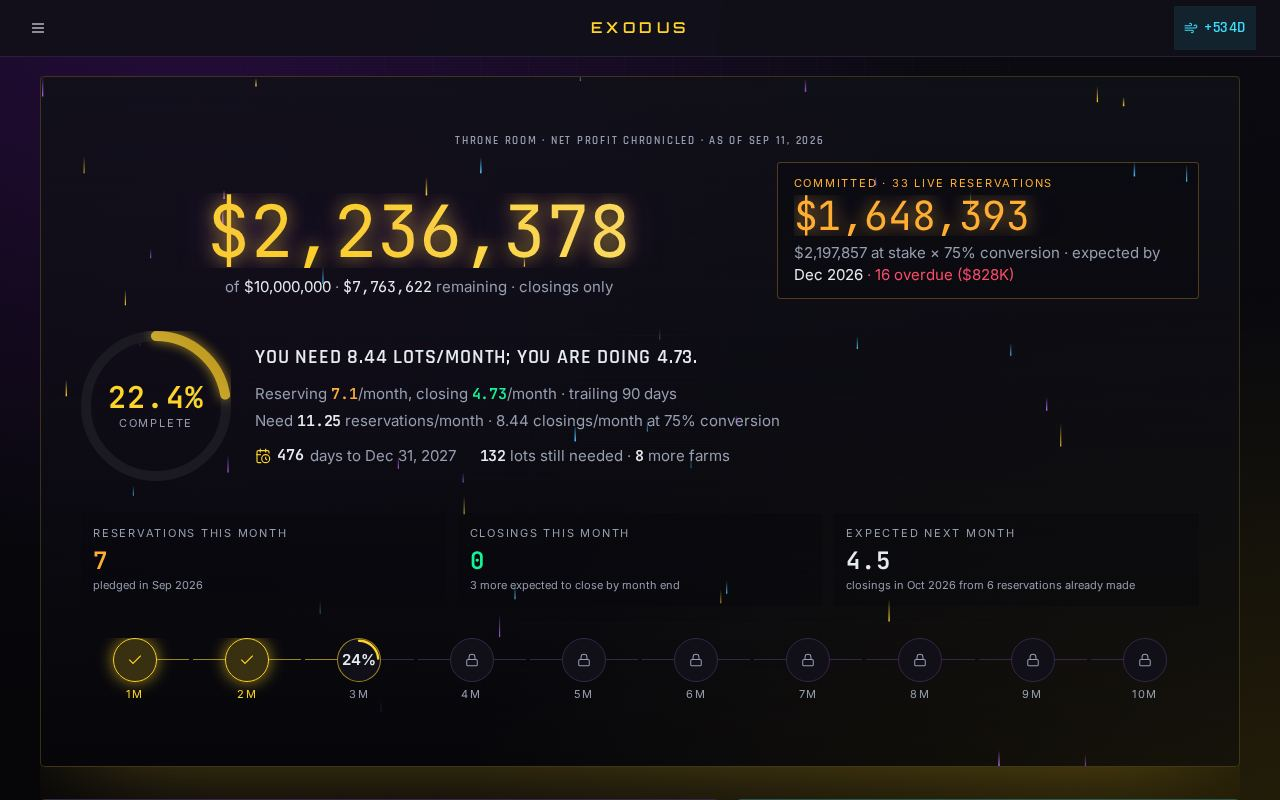
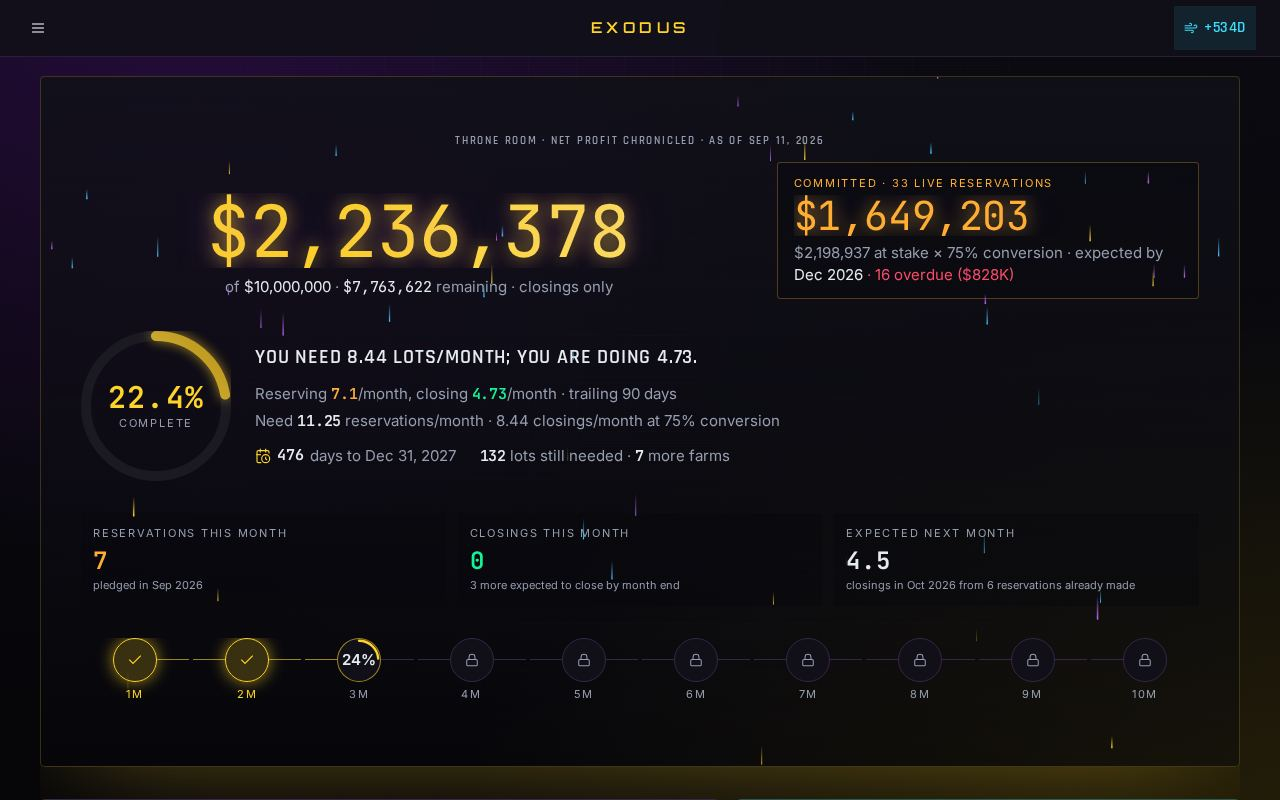
docs: Exodus shipped — PROGRESS "Exodus — status" with the live 30 % results (verdict ES/EN, $3.0M in 27.89 notes, 5 releases $203,192, no own-cash farm, $9,998,756 cash, back Oct 5 2027, $572,400 saved vs 100 % cash, maxNotesPct 60), the engine in one paragraph and every assumption; OPEN_QUESTIONS 

Changed region(s): [[0.6562, 0.25, 0.9062, 0.3438]]

diff --git a/PROGRESS.md b/PROGRESS.md
@@ -4,22 +4,27 @@
 
 | | |
 |---|---|
-| **URL** | **https://terrafunded-quest-v2.vercel.app** — live (deployed 2026-09-11 via Option B in **`DEPLOY.md`** with `VERCEL_TOKEN`; last `npm run verify:live` after the Era deploy: net profit **$2,236,378**, trapped **$1,103,375**, "You need 8.44 lots/month; you are doing 4.73.", deep link `/pipeline` 200, all three themes persist; the Throne Room screenshots in `docs/live-*.jpg` show the Committed counter — 33 live reservations, $1,648,393 of $2,197,857 at stake, expected by Dec 2026 — the two pace lines, the This-month strip with September's **7** reservations (OPEN_QUESTIONS #69) and the Debt's *"$10,026 / day since Mar 2026 (194 days) · $6,656 / day over the full history"*; the live War Plan reads the projected 219.5-day cycle "funded since Mar 2026" and a disabled Seasonal button — "not enough history for seasonality: 6 of 12 months" (#79). |
+| **URL** | **https://terrafunded-quest-v2.vercel.app** — live (deployed 2026-09-11 via Option B in **`DEPLOY.md`** with `VERCEL_TOKEN`; last `npm run verify:live` after the Era deploy: net profit **$2,236,378**, trapped **$1,103,375**, "You need 8.44 lots/month; you are doing 4.73.", deep link `/pipeline` 200, all three themes persist; the Throne Room screenshots in `docs/live-*.jpg` show the Committed counter — 33 live reservations, $1,648,393 of $2,197,857 at stake, expected by Dec 2026 — the two pace lines, the This-month strip with September's **7** reservations (OPEN_QUESTIONS #69) and the Debt's *"$10,026 / day since Mar 2026 (194 days) · $6,656 / day over the full history"*; the live War Plan reads the projected 219.5-day cycle "funded since Mar 2026" and a disabled Seasonal button — "not enough history for seasonality: 6 of 12 months" (#79). **Exodus deploy (2026-09-11 22:08 UTC):** `/exodus` deep link 200; at 30 % the live verdict reads *"Con 30% en pagarés ($3.0M entregados): liberar $684K mediante 5 liberaciones parciales por $203K, no comprar fincas con efectivo propio, vender 255 pagarés y pagar $10.0M a los LP en efectivo."*, discount saved **$572,400**, capital back **Oct 5, 2027** instead of Oct 23, 2027, `maxNotesPct` **60** — the fixture figures to the dollar (see "Exodus — status"). |
 | **QR** | <img src="docs/qr-live.png" alt="QR code for the live Quest URL" width="160"> `docs/qr-live.png` / `.svg`, generated by `npm run qr` (`scripts/qr.ts`); re-run with the real URL if Vercel assigns a different alias |
 | **Platform** | `vercel.json`: Vite framework preset, `npm run build` → `dist/`, every route rewritten to `/index` with `cleanUrls` (SPA deep links; `/pipeline` returns 200), immutable cache on `/assets`, nosniff / frame-deny / referrer headers. No server, no API routes. |
 | **Env** | `VITE_SUPABASE_URL`, `VITE_SUPABASE_ANON_KEY` on Vercel (production + preview). Nothing else; the anon key is public by design and RLS keeps the app read-only. |
 | **Check** | `npm run verify:live -- <url>` (`scripts/verify-live.ts`): deep link `/pipeline` is not a 404, signs in as the viewer, asserts the Throne Room net-profit counter is a real dollar amount > 0 and reads the trapped-profit counter and the verdict, then picks each of the three themes on `/login`, asserts `html[data-theme]` + `localStorage` and that the choice survives a reload, and saves `docs/live-<theme>.jpg`. Run against the local production build (`http://localhost:4173`) it reports net profit **$2,272,304**, trapped **$1,116,863**, "You need 8.31 lots/month; you are doing 4.4." and all three skins switching — the same run is the acceptance test for the live URL. |
 
 Branch `v2`. Snapshot of live Payments taken **2026-09-11 02:07 UTC** and **refreshed 2026-09-11
-19:17 UTC** (`npm run snapshot`; every pinned number re-pinned — see **"Snapshot 2026-09-11
-refresh"** at the end of the file; the sections in between quote the 02:07 figures).
-Last full verification (build · lint · 310 unit tests · 233 Playwright tests): **2026-09-11**.
+19:17 UTC and again 21:31 UTC** (`npm run snapshot`; every pinned number re-pinned each time — see
+**"Snapshot 2026-09-11 refresh"** and its "Second refresh the same day" near the end of the file;
+the sections in between quote the 02:07 figures).
+Last full verification (build · lint · 343 unit tests · 251 Playwright tests): **2026-09-11**, followed
+by the Exodus deploy and `verify:live` (net profit $2,236,378 · trapped $1,103,375 · "You need 8.44
+lots/month; you are doing 4.73." · three themes persist) — the live Exodus figures are in **"Exodus —
+status"** at the end of the file.
 
 Order of work, as requested: Phase 1 numbers verified → connection check → domain reproduces the
 verified numbers → **Phase 2: Epic** → **Pipeline layer** → **three visual themes + POLISH loops
 + performance/mobile audit** → **War Plan + Rotation** → **Data Quality for operations** →
 **Reservations first-class** → **The Era** (`ERA_START = 2026-03-01`) → **Snapshot 2026-09-11
-refresh** → **Exodus** (lot ledger port first) (all at the end of the file).
+refresh** → **Exodus** (lot ledger port first, then the engine, the page, the tests, the deploy) (all
+at the end of the file).
 
 ## Payments connection check (`npm run check`, 2026-09-11 02:52 UTC)
 
@@ -659,3 +664,104 @@ column names are in `payments_schema.md`; what it returns beyond the rule (`floo
 unreleased lots carry **$1,880,453.51** of balance today (Eastland $307,157.38 · Titus $369,757.47 ·
 Freestone $253,158.02 · Avery $548,275.69 · Franklin $402,104.95 · Franklin 2 $0 until 2026-10-15),
 which is what partial releases would have to pay if they all happened today — and it grows daily.
+
+## Exodus — status (2026-09-11; `src/domain/exodus.ts`, page `/exodus`; fixture numbers pinned in `exodus.test.ts` and `epic_fixture.test.ts`; live at https://terrafunded-quest-v2.vercel.app/exodus)
+
+One question, answered on one read-only page: return the **$10,000,000** of LP capital
+(`LP_CAPITAL_TO_RETURN` in `src/config/goal.ts`) by **2027-12-31**, a chosen percentage of it in
+fractions of promissory notes at 100 % of their unpaid balance and the rest in cash. An LP who
+receives a note fraction is settled on the delivery date; nothing after that exists for the model.
+Build · lint · **343 unit tests** (16 files; `exodus.test.ts` 12 synthetic, the Exodus block of
+`epic_fixture.test.ts` 13 on the fixture, `lotLedger.test.ts` 13 parity) · **251 Playwright tests**
+(two Exodus specs × 2 projects + `/exodus` in the route, mobile-matrix, screenshot and perf lists) are
+green; pushed to `v2`, deployed 22:08 UTC, `verify:live` passed.
+
+### Live results at 30 % (read off the deployed page 2026-09-11 22:11 UTC; Spanish is the default language)
+
+| | Live (= fixture, to the dollar — live Payments has not moved since the 21:31 UTC snapshot) |
+|---|---|
+| **Verdict** | ES *"Con 30% en pagarés ($3.0M entregados): liberar $684K mediante 5 liberaciones parciales por $203K, no comprar fincas con efectivo propio, vender 255 pagarés y pagar $10.0M a los LP en efectivo."* · EN *"With 30% in notes ($3.0M delivered): free $684K through 5 partial releases costing $203K, buy no cash farm, sell 255 notes and pay $10.0M to LPs in cash."* Footer: 15.63 months to Dec 31, 2027; production is the War Plan's required plan in cash mode — 20.53 closings/month, 18 new farms, $68,433 of ads per full month; the last month in which a farm bought with own cash still closes lots before the deadline is **Jul 2027**. |
+| **Notes delivered** | **$3,000,000** in **27.89 notes**: 9 free notes in hand today ($671,228 — Olney 3, Promised Valley 3, Red River 1 3, as the brief said), 2 of today's notes after a partial release ($343,717 — EAS-L01, FRE-L01), 14 future own-capital notes ($1,645,066 — Promised Valley's Sep 2026–Jan 2027 closings), 2.89 future notes after a partial release ($339,989 — Avery 2.30, Eastland 0.31, Franklin 2 0.28). UPB-weighted **9.31 %**, **138.49** months of term, 136.21 remaining. The note target is met in **Jan 2027** (month 5). |
+| **Partial releases** | **4.89 lot-units for $203,192.36**: EAS-L01 $51,498 → $208,750 (4.05×) · Avery Sep 2026 2.19 lots $65,172 → $257,661 (3.95×) · FRE-L01 $51,091 → $134,967 (2.64×) · Eastland Sep 2026 0.31 lot $16,546 → $36,809 (2.22×) · Franklin 2 Sep 2026 0.28 lot $15,544 → $32,587 (2.10×), all in Sep 2026, plus Avery Oct 2026 0.11 lot $3,341 → $12,931 (3.87×). Every dollar of September's Portafolio cash ($243,193 in) goes to releases; $0 reaches the LPs that month. |
+| **Farms bought with own cash** | **none**. The 18 farms of the plan are funded by the War Plan's mix (Kevin Concua 2.3, Townson Family 4.7, Julio Arriola 1.5, Rony Schumann 0.8, Doctores Motta 0.8, **7.8 unfunded** = $3,669,756); a farm is bought whole in its own purchase month and Portafolio never holds its $468,520 then (Oct 2026, Farms 1–2's month, brings in $127,799), and by Jan 2027 the note target is met so nothing more is bought; the latest viable purchase month is Jul 2027 (deadline − 3-month land lag − 2-month close lag). |
+| **Cash to LPs** | **$9,998,755.77**, so **$12,998,755.77** returned in total; the $10M is complete on **2027-10-05**. Notes sold on the way: **255.47** for $24,087,607.72 at the 80.92 % ratio; ad spend $864,541.07 (the War Plan's). 3.64 fixed-interest lots stay unsold at the deadline with a $193,280.12 partner balance. |
+| **Versus 100 % cash** | Baseline: *"Con 0% en pagarés: vender 283 pagarés y pagar $12.4M a los LP en efectivo."* — **$12,401,779.56** cash, complete **2027-10-23**, 283.36 notes sold ($26,496,001.89). Discount saved **$572,400** (= $3,000,000 × (1 − 0.8092)); lots not needed **0** (259.36 either way — both plans finish in October 2027, after the plan's last closing month, so every lot is sold regardless); **0.59 months / 18 days earlier**. |
+| **`maxNotesPct`** | **60** — the slider's ceiling; the note inventory covers every percent from 0 to 60 by the deadline (61 of 61 points feasible), so the mark sits at the right end of the track. |
+| **60 % for reference** | $6,000,000 delivered in 53.75 notes (9.37 %, 139.71 months) after **30.75 releases costing $1,136,230** (Avery Dec 2026 – Jan 2027, EAS-L01 Jan 2027, Farm 1/Farm 2 (Kevin Concua) Jan–Feb 2027 …), 230 notes sold, **$7,569,060.67** cash, complete **2027-09-18**; discount saved $1,144,800, 8.28 lots not needed, 1.15 months earlier. |
+| **Month table** | 16 rows, Sep 2026 → Dec 2027. Sep 2026: 13 closings · 11.2 free notes available · 16.0 delivered ($1,599,663) · 4.8 releases ($199,852) · 5 sold ($491,309) · $243,193 in · $43,341 ads · $0 to LPs. The plan's closings run Sep 2026 (13) through Sep 2027 (20.53/month); Oct–Dec 2027 only sell the notes of the last closings. Dec 2027: 0 closings · 20.5 notes sold ($1,928,857) · $1,040,551 in · $1,040,551 to LPs · cumulative $3,000,000 notes + $9,998,756 cash = $12,998,756. |
+| **Today's inventory** | Free 9 · $671K (Olney, Promised Valley, Red River 1) · Partial release 9 · $1.22M, $488,922 to free today · Townson 6 · $742K · Excluded 1 · $42K (EAS-L04) · No farm 13 · $1.03M; 15 sold and 3 inactive notes are left out. |
+
+### How the engine works (`src/domain/exodus.ts`, pure; reuses `goal.ts`, `oracle.ts`, `pipeline.ts`, `warplan.ts` and `lotLedger.ts`)
+
+`prepareExodus` (once per deadline) solves the **War Plan in cash mode** for the LP capital — its
+closings per month, its partner-funded farms and their landing months, its ad spend — and replays the
+Oracle's inventory consumption: today's 83 unsold lots first (shared among the nine farms that still
+have lots by what each has left), then each new farm's lots as they land. `runExodus` (cheap; the
+slider, the `maxNotesPct` scan and the 0 % baseline all call it) runs the monthly loop from
+2026-09-11 to the deadline: **1** closings per the plan, down payments through each farm's
+waterfall; **2** the best release candidates the target still needs are reserved, every other note
+that is due is sold at the real ratio; **3** ads are paid; **4** allocation while delivered value <
+target — free notes first (earliest first), then partial releases and own-cash farms ranked by
+**settlement per dollar** with ties to the earliest date (`compareAllocationOptions`); nothing at or
+below 1.0× is bought because a cash dollar settles a dollar; **5** Option A — once the target is met
+every note still held and due is sold; on the last day everything left is sold; **6** every remaining
+Portafolio dollar goes to the LPs. Feasible when notes + cash ≥ the LP capital by the deadline.
+Eligibility: `own_capital` notes are deliverable as they are; `fixed_interest` notes only once the
+lot's outstanding is paid (a partial release priced by the lot ledger run forward to that month —
+`lotClaimAt`); `profit_share` notes never (always sold); excluded codes never (neither delivered nor
+sold). UPB amortizes monthly, `upb × (1 + rate/12) − payment`, floored at 0; a delivery is valued at
+the UPB of its month. Existing notes' lots are released whole; the delivered fraction of the last
+note is whatever the target still needs and the remainder is sold the same month. Projected batches
+(one farm's closings in one month) are divisible.
+
+### Every assumption (each also in `OPEN_QUESTIONS.md`, #81–#96)
+
+1. **Note-sale ratio 80.92 % ("combined")** — per sale, `sale_price ÷` the unpaid balance implied by
+   `discount_from_upb` when it is recorded (6 sales, 82.75 %), else `÷ notes.financed_amount` (all 15,
+   80.45 %). The brief's literal `sale_price ÷ (sale_price + discount_from_upb)` reads 99.98 % because
+   `discount_from_upb` is a percent; it is shown and not used (#81). Editable on the page.
+2. **Starting cash $0.** Payments holds no bank balance. The War Plan's cash mode starts from cash
+   kept − owed today ($1,362,503.84 − $4,801,191.96 = −$3,438,688.12), a position, not a balance;
+   both figures are shown beside the input and the bridge explains the difference (#82).
+3. **Production = the War Plan's cash-mode required plan** for the same target and deadline
+   (20.53 closings/month, 259.36 lots, 18 farms, $68,433/month of ads). At 0 % the Exodus closes the
+   same lots, buys the same farms and spends the same ads; the War Plan ↔ Exodus **cash bridge** is
+   explained to the cent (start position $3,438,688.12 · receipts −$77,147.76 · existing notes
+   +$1,034,918.91 · partner payments −$1,136,076.03 · ads −$864,541.07 · replay drift −$202.42 ·
+   residual $0) (#83).
+4. **Committed capital counts from day one.** Franklin 2's ledger costs are dated 2026-10-15; its
+   capital is a claim on its lots already (interest only from that date). Lakeview's $495,000 is
+   Townson capital to return from its lots from day one although `funding_date` is null (#84).
+5. **13 farm-less notes ($1,031,429.19) and the excluded EAS-L04 ($42,050.43) are neither delivered
+   nor sold**; they are listed under "No farm" / "Excluded" and produce no cash in the model (#85).
+6. **A War Plan farm is classified by its largest funding slice**; unfunded capital counts as fixed
+   interest at the mix's first fixed rate (Kevin Concua's 20 %). On this data: 13 fixed-interest
+   farms (releasable), 5 Townson farms (never delivered — including Farm 3, Kevin $151,288 + Townson
+   $317,232), 0 own-capital farms (#86).
+7. **Profit-share waterfall**: a lot's proceeds return Townson's capital on that farm first, then split
+   at the farm's share (50 %); the Oracle/War Plan books Townson's take as gross × 50 % from the first
+   dollar. The difference lives in the bridge's "partner payments" (#87).
+8. **Unsold fixed-interest lots at the deadline** (3.64 lots, $193,280.12 at 30 %) keep their partner
+   balance; it is reported, not paid (#88).
+9. **Ads are paid from Portafolio cash** before anything reaches the LPs, exactly the War Plan's
+   `adSpendPerClosing × closings` (#89).
+10. **Future notes use real averages**: face $117,504.74 (= avg sale price $127,335 − 7.72 % down),
+    9.46 % (mean rate of the realm's 39 farm notes), 140 months, $1,388.87/month; they are sold, if
+    not delivered, `noteSaleLagMonths` (3) after closing. Existing notes use their own `current_upb`,
+    `interest_rate` (fraction), `monthly_payment`, and are sold at `start_date + 3 months` or in the
+    first month if that is past (#90).
+11. **Own-cash farms** are War Plan farms bought with Portafolio cash instead of the plan's funding
+    (then every note they produce is free); viable only when `purchaseMonth ≤ deadline − land lag −
+    close lag` (Jul 2027). On this data none is ever chosen: a farm is bought whole in its purchase
+    month and Portafolio never holds $468,520 then; once the target is met nothing is bought (#91).
+12. **`maxNotesPct` = 60 is the slider's ceiling**, not a binding limit: the inventory covers every
+    percent up to 60 (#92).
+13. **Lots not needed = 0 at 30 %** because both the 30 % plan (Oct 5, 2027) and the baseline
+    (Oct 23, 2027) finish after the plan's last closing month (Sep 2027 in the War Plan), so all 259.36
+    lots are sold either way; at 60 % it becomes 8.28 (#93).
+14. **Replay drift −$202.42** between the Oracle's cash metric and the replayed consumption (16
+    rounded rows, $27M of receipts); the test tolerates $250 and pins the residual at $0 (#94).
+15. **Any note on a lot blocks the cash-closing credit**, and the unnumbered Eastland property is a lot
+    (inherited from the ledger port, #80); existing notes' lots are released whole (#95).
+16. **Live Payments moved twice on 2026-09-11** (19:17 → 19:42 → 21:15–21:17 UTC); the fixture is the
+    21:31 UTC state and the live page reproduced it to the dollar at 22:11 UTC (#96).

diff --git a/OPEN_QUESTIONS.md b/OPEN_QUESTIONS.md
@@ -841,3 +841,167 @@ say, recorded here rather than guessed:
 Also observed: `credit_detail.kind` uses exactly `down_payment` · `note_sale` · `cash_sale`, which the
 port mirrors; the two 2026-09-11 snapshots (19:17 and 19:42 UTC) differ only in Avery Lot 4's stage
 ("Onboarding de RMLO" → "Aprobado por RMLO", 31 % → 35 %), which no pinned number reads.
+
+## 81. Exodus: which note-sale ratio is the "real" one
+
+The brief asked for `sale_price ÷ (sale_price + discount_from_upb)` when `discount_from_upb` is
+populated, else `sale_price ÷ notes.financed_amount`. On the 6 sales that carry it,
+`discount_from_upb` equals `100 × (1 − sale_price ÷ current_upb)` within 0.01 on every row — it is a
+**percent, not dollars** — so the literal formula gives **99.98 %** and says nothing about the
+discount. `noteSaleRatioReal()` computes all of them and the page shows each with its basis: the
+**combined 80.92 %** that is used (per sale, the unpaid balance the recorded percent implies when it
+is there, else the financed amount), the discount-only **82.75 %** (6 sales), the financed-only
+**80.45 %** (15 sales) and the literal 99.98 %. The Oracle's `noteSalePct` stays the fallback if
+`note_sales` were ever empty. The input is editable, so a different reading costs one keystroke; the
+discount saved and the sale proceeds move with it (at 30 %, $572,400 = $3,000,000 × (1 − 0.8092)).
+
+## 82. Exodus: Portafolio starts the loop with $0
+
+Payments records no bank balance. The War Plan's cash mode starts from *cash kept − owed today*
+($1,362,503.84 − $4,801,191.96 = **−$3,438,688.12**), which is a position toward sponsors, not money in
+an account, and the Exodus must not pay LPs out of it. `startingCash` defaults to 0 and both real
+figures are shown beside the input; the "sources" bridge on the page carries the $3,438,688.12 as its
+first line so the War Plan's cash-at-deadline and the Exodus cash paid to LPs reconcile (#83). Anyone
+who knows the real balance types it in.
+
+## 83. Exodus: production is the War Plan's cash-mode plan, and the two are reconciled to the cent
+
+Exodus does not invent its own pace: `prepareExodus` solves the War Plan for the LP capital in
+`cash_in_bank` mode with the same deadline and replays its inventory consumption month by month
+(today's 83 lots first, then each farm's lots as they land). `reconcileWithWarPlan` checks that the
+replay closes the same 259.36 lots, buys the same 18 farms and spends the same $864,541.07 of ads,
+rebuilds the Oracle's cash metric from the replay (**$10,005,937.39 vs the plan's $10,006,139.81**,
+drift −$202.42, #94) and explains the gap to the 0 % baseline's $12,401,779.56 cash to LPs line by
+line: starting position +$3,438,688.12 (#82) · receipts −$77,147.76 (Exodus sells each projected note
+three months after closing at 80.92 % of its amortized balance; the Oracle books `noteSalePct` of
+face) · existing notes +$1,034,918.91 (today's 24 live notes, which the Oracle never counted, all
+sold at 0 % net of their partners' share) · partner
+payments −$1,136,076.03 (#87) · settlement spend $0 · ads −$864,541.07 · unpaid carry $0 · replay
+drift −$202.42 · **residual $0.00**. The test `notesPct = 0 equals War Plan cash-mode result` pins
+all of it.
+
+## 84. Exodus: capital that is committed before Payments books it
+
+Two farms have partner capital that the ledger does not yet see as a cost: **Franklin 2** (closing
+2026-10-02 since the 21:17 UTC correction; its only `property_costs` rows are dated 2026-10-15, #80)
+and **Lakeview** (Townson, $495,000, `funding_date` null, no cost rows at all). Exodus treats both as
+owed from day one: `lotClaimAt` counts every capital entry the ledger knows regardless of its date
+(interest still accrues only from each entry's own date, so Franklin 2 accrues at 25 % from
+2026-10-15), and Lakeview's $495,000 is the capital its lot proceeds must return before Townson's
+50 % split applies. The alternative — pretending the lots are free until the cost row lands — would let
+the September plan deliver Franklin 2 notes at no cost, which is not what a partial release means.
+
+## 85. Exodus: notes with no farm and the excluded note produce no cash
+
+Thirteen active, unsold notes ($1,031,429.19 of UPB) sit on properties that are not on any
+`farm_acquisitions` row (houses and other lines); one more, **EAS-L04** ($42,050.43), is excluded by
+default (`EXODUS_DEFAULT_EXCLUDED_NOTE_CODES`, "in dispute"). The model neither delivers nor sells
+them: their proceeds would be real cash, but nothing in Payments says whose farm economics they
+follow, so counting them would invent a waterfall. They are listed on the page under "No farm" and
+"Excluded" so the omission is visible. Removing EAS-L04 from the input puts it back in play as a
+fixed-interest note on Eastland.
+
+## 86. Exodus: what kind of farm a War Plan farm is
+
+The War Plan funds each new farm from the investor mix in order, so a farm can straddle two sponsors
+(Farm 3: Kevin Concua $151,288 + Townson Family $317,232; Farm 8: Townson $4,688 + Julio Arriola
+$463,832) or be partly or wholly **unfunded** (Farms 11–18, $3,669,756 in total). Exodus classifies
+each farm by its **largest slice**: own capital → notes free; profit share → never delivered; fixed
+interest → deliverable after a release at the slice-weighted rate, with unfunded capital counted as
+fixed interest at the mix's first fixed rate (Kevin's 20 %). On this data that is 13 releasable farms,
+5 Townson farms and none on own capital. A farm-level rule was chosen over a per-dollar split because
+a note is either delivered or sold; the bridge (#83) absorbs whatever the rule costs.
+
+## 87. Exodus: the profit-share waterfall returns capital first
+
+On a profit-share farm (Wichita, Lamar, Lakeview, Farms 3–7) Exodus routes each lot's proceeds to
+**return Townson's capital on that farm first**, then splits the rest at the farm's share (50 %). The
+Oracle and the War Plan book Townson's take as gross × 50 % from the first dollar. Neither reading is
+in Payments' schema; the liberation board measures Townson by capital returned, which is the reading
+Exodus follows. The two differ by $1,136,076.03 on the 0 % baseline ("partner payments" in the
+bridge, #83) — this is the largest single judgment call in the page's cash figure.
+
+## 88. Exodus: unsold fixed-interest lots still carry a partner balance at the deadline
+
+At 30 %, 3.64 fixed-interest lots are never sold by 2027-12-31 and carry **$193,280.12** of partner
+balance (`unsoldLotsAtDeadline`); at 0 % the same. Exodus reports it in the sources block and does
+not pay it — the War Plan does not either, and paying it would be a choice about what happens after
+the LPs are settled, which the model leaves alone.
+
+## 89. Exodus: ads come out of Portafolio cash
+
+The War Plan's `adSpendPerClosing × closings` ($43,341 in September 2026, $68,433 in a full month,
+$864,541.07 in total) is paid every month before any dollar reaches the LPs (step 3 of the loop). The
+War Plan's cash mode deducts the same amount, so the bridge carries it as a named line rather than a
+difference.
+
+## 90. Exodus: what a future note looks like and when an undelivered note is sold
+
+Every projected note — pipeline closings, required-pace closings, new farms — gets the realm's real
+averages: face **$117,504.74** (avg sale price $127,335 − 7.72 % down), **9.46 %** (mean
+`interest_rate` of the 39 non-test farm notes), **140 months**, level payment **$1,388.87**; its UPB
+amortizes monthly from its closing month. Today's 24 live notes use their own `current_upb`,
+`interest_rate` (a fraction) and `monthly_payment`, and their remaining term is `term_months` minus
+the months since `start_date`. A note that is not reserved for delivery is sold `noteSaleLagMonths`
+(3) after its closing; for today's notes that is `start_date + 3 months`, or the first month of the
+loop when that is already past (most of them). The 6 Townson notes (CLA-*) are sold in months 2–3.
+
+## 91. Exodus: buying a farm with own cash never wins on this data
+
+An own-cash farm is one of the War Plan's farms bought with Portafolio cash instead of the plan's
+funding, so that every note it produces is free; it is only viable when its purchase month is at or
+before `deadline − land lag (3) − close lag (2)`, i.e. **Jul 2027** (shown in the verdict footer). It
+competes in the same ranking as partial releases — settlement per dollar, ties to the earliest date —
+and a 10-lot farm at $468,520 would settle ≈ 2.5× (10 × $117,505 of free notes), which would beat the
+cheaper releases. It never happens on this data because a farm is bought whole, in its own purchase
+month, and Portafolio never holds $468,520 then: at 30 % the cash in is $243,193 in Sep 2026 (all
+spent on releases), $127,799 in Oct (Farms 1–2's month), $34,041 in Nov, $160,613 in Dec, and the
+note target is met in Jan 2027, after which nothing is bought; at 60 % Sep–Nov even run a small
+deficit on ads and the target is met in Feb 2027. `cashFarms` is therefore empty at every percent
+from 0 to 60. The engine and the "Farm N (own cash instead of …)" label are exercised by
+`exodus.test.ts`; the fixture simply never needs them.
+
+## 92. Exodus: `maxNotesPct` is the slider's ceiling
+
+`scanNotesPct` runs every percent from 0 to `EXODUS_NOTES_PCT_MAX` (60) and keeps the highest one
+whose notes and cash cover the LP capital by the deadline. On this data all 61 points are feasible, so
+`maxNotesPct` = **60** and the mark sits at the right end of the track. It is a real search — shorten
+the deadline or raise the ratio input and it moves — not a constant.
+
+## 93. Exodus: "lots not needed" is 0 at 30 % and 8.28 at 60 %
+
+`lotsNotNeeded` compares the lots closed until the capital is back under 100 % cash with the lots
+closed until it is back with notes. Both the 30 % plan (2027-10-05) and the baseline (2027-10-23)
+finish after the War Plan's last closing month (Sep 2027), so all 259.36 lots are closed either way
+and the saving shows up only as "0.59 months earlier". At 60 % the capital is back on 2027-09-18,
+inside the closing months, and 8.28 lots are spared. The measure is month-granular by construction.
+
+## 94. Exodus: the replay drifts $202.42 from the Oracle's own metric
+
+Rebuilding the War Plan's cash-at-deadline from the replayed consumption gives $10,005,937.39 against
+the plan's $10,006,139.81 — a **−$202.42** drift on $27M of receipts, from the plan's rows being
+rounded to cents and its farms landing on month boundaries. It grew from $144.82 with 7 farms to
+$202.42 with 18; the test tolerance is $250 and the bridge pins the exact figure so any change is
+visible. It is not a bug to fix silently: the Oracle's rounding is what the War Plan page shows.
+
+## 95. Exodus: today's notes are released whole
+
+The brief allows fractions of notes; the model delivers a fraction of a *projected batch* freely, and a
+fraction of the **last existing note** when the target needs less than a whole one — but a lot is
+released whole or not at all (`indivisible`), because a partial release in Payments pays a lot's
+outstanding balance, not a share of it. The undelivered remainder of that last note is sold the same
+month. Inherited from #80 without change: any note on a lot (test notes included) blocks the
+cash-closing credit, and Eastland's unnumbered property is a lot like any other.
+
+## 96. Exodus on live data: Payments moved twice on 2026-09-11
+
+The fixture was refreshed at 19:17 UTC (Step 0), re-fetched at 19:42 UTC with the RPC ledgers
+(Step 1), and refreshed again at 21:31 UTC after Payments changed at 21:15–21:17 UTC (Lakeview,
+Franklin 2 → Julio Arriola, Titus Lot 6 re-priced — PROGRESS.md "Second refresh the same day"). The
+deployed page read at 22:11 UTC reproduces the 21:31 fixture **to the dollar**: verdict *"Con 30% en
+pagarés ($3.0M entregados): liberar $684K mediante 5 liberaciones parciales por $203K, no comprar
+fincas con efectivo propio, vender 255 pagarés y pagar $10.0M a los LP en efectivo."*, discount
+saved $572,400, capital back Oct 5, 2027 vs Oct 23, 2027, `maxNotesPct` 60. The live page computes
+with today's date, so the release costs grow a few dollars a day (EAS-L01 $50,963 today,
+$51,498 at the end of September) and the same snapshot will read differently tomorrow; the e2e asserts
+shape (a dollar amount, 30 → 0 changes the verdict, $0 discount saved), never these figures.
